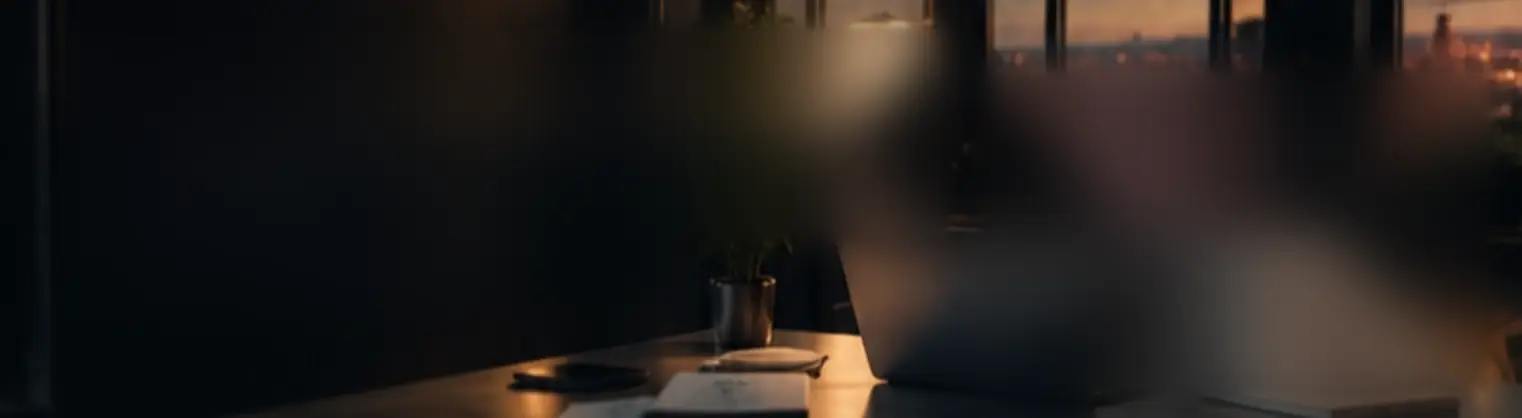
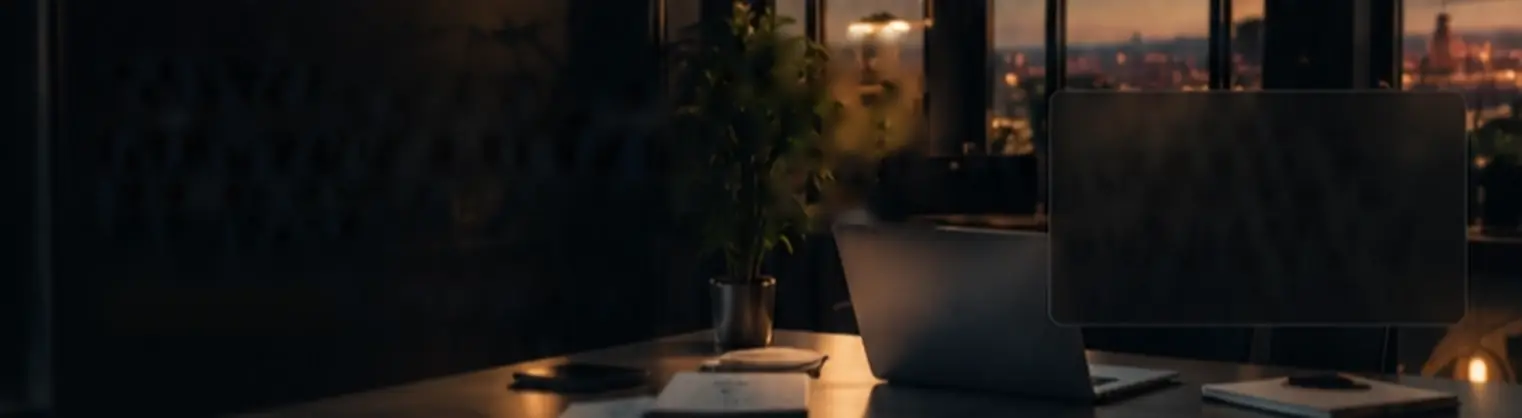
home: la cta igual que el boceto, con su foto limpia y el panel encajado, y el pie con todo lo legal

diff --git a/src/index.html b/src/index.html
@@ -320,38 +320,62 @@
     .g-datos p { margin-top: 2px; font-size: 13px; line-height: 1.5; color: #5A6270; }
 
     /* ============ 10 - CTA FINAL ============ */
-    .s10 { background: #0A0C0E; min-height: clamp(440px, 54vh, 600px); }
-    .s10 .foto { background-image: url(/assets/home-cierre.webp); filter: blur(1.4px); transform: scale(1.02); }
-    .s10 .velo { background: linear-gradient(90deg, rgba(5,7,9,.86) 0%, rgba(5,7,9,.62) 45%, rgba(5,7,9,.40) 100%); }
-    .s10 .caja { display: grid; grid-template-columns: 1fr minmax(0, 470px); gap: 56px; align-items: center; }
-    .s10 .h2 { color: #fff; }
-    .s10 .p { margin-top: 20px; color: rgba(255,255,255,.84); }
-    .k-acc { margin-top: 38px; display: flex; align-items: center; flex-wrap: wrap; gap: 28px; }
-    .btn-bl { background: #fff; color: var(--tinta); height: 60px; padding: 0 34px; font-size: 17px; }
-    .btn-bl:hover { background: #ECEEF1; }
-    .k-meta { display: flex; align-items: center; gap: 10px; font-size: 15px; color: rgba(255,255,255,.82); }
-    .k-meta svg { width: 20px; height: 20px; }
-    .k-lista { background: rgba(14,16,17,.82); border: 1px solid rgba(255,255,255,.14); border-radius: 16px; padding: 14px 30px; list-style: none; backdrop-filter: blur(10px); -webkit-backdrop-filter: blur(10px); }
-    .k-lista li { display: flex; align-items: center; gap: 18px; padding: 18px 0; font-size: 16.5px; color: rgba(255,255,255,.92); }
-    .k-lista li + li { border-top: 1px solid rgba(255,255,255,.08); }
-    .k-lista u { width: 38px; height: 38px; border-radius: 50%; border: 1.5px solid rgba(255,255,255,.55); display: flex; align-items: center; justify-content: center; }
-    .k-lista u svg { width: 19px; height: 19px; }
+    /* ============ 10 - CTA FINAL ============
+       Tercera pasada (2026-10-03): "no esta nada igual". Era una seccion de
+       dos tercios de pantalla con la foto ampliada, desenfocada y muy
+       oscurecida. Ahora es la tira del boceto tal cual: una escena con su
+       proporcion (761:209) y todo medido en unidades del boceto (--u = 1 px
+       de los 761). Medidas: titular 24 u, entradilla 10,6 u en dos lineas,
+       boton 126 x 30 u, panel 208 x 116 u en x513 y47, filas cada 33 u.
+       El texto arranca en 40 u (= 76 px a 1440) para alinearse con el resto
+       de secciones; el boceto lo ponia en 48. */
+    .s10 { background: #06080A; min-height: 0; display: block; }
+    .k-esc { position: relative; max-width: 1440px; margin: 0 auto; aspect-ratio: 761 / 209; container-type: inline-size; overflow: hidden; }
+    .k-foto { position: absolute; inset: 0; background: url(/assets/home-cierre.webp) center / 100% 100% no-repeat;
+              -webkit-mask-image: linear-gradient(90deg, transparent 0, #000 5%, #000 95%, transparent 100%); mask-image: linear-gradient(90deg, transparent 0, #000 5%, #000 95%, transparent 100%); }
+    .k-velo { position: absolute; inset: 0; background: linear-gradient(90deg, rgba(4,6,8,.45) 0%, rgba(4,6,8,.18) 40%, rgba(4,6,8,0) 60%); }
+    .k-in { position: absolute; inset: 0; --u: calc(100cqw / 761); color: #fff; }
+    .k-tx { position: absolute; left: calc(40 * var(--u)); top: calc(22 * var(--u)); }
+    .k-kick { font-size: calc(7.4 * var(--u)); line-height: 1; font-weight: 600; letter-spacing: .26em; text-transform: uppercase; color: rgba(255,255,255,.92); }
+    .k-t { margin-top: calc(12 * var(--u)); font-size: calc(24 * var(--u)); line-height: 1.1; font-weight: 700; letter-spacing: -.035em; }
+    .k-sub { margin-top: calc(9 * var(--u)); width: calc(300 * var(--u)); font-size: calc(10.6 * var(--u)); line-height: calc(16 * var(--u)); color: rgba(255,255,255,.88); }
+    .k-acc { margin-top: calc(17 * var(--u)); display: flex; align-items: center; gap: calc(18 * var(--u)); }
+    .k-btn { display: inline-flex; align-items: center; justify-content: center; gap: calc(7 * var(--u)); width: calc(126 * var(--u)); height: calc(30 * var(--u)); border: 0; border-radius: calc(5 * var(--u)); background: #fff; color: var(--tinta); font-family: inherit; font-size: calc(9.4 * var(--u)); font-weight: 600; cursor: pointer; white-space: nowrap; }
+    .k-btn:hover { background: #ECEEF1; }
+    .k-btn svg { width: calc(10 * var(--u)); height: calc(10 * var(--u)); }
+    .k-meta { display: flex; align-items: center; gap: calc(6 * var(--u)); font-size: calc(8.6 * var(--u)); color: rgba(255,255,255,.86); white-space: nowrap; }
+    .k-meta svg { width: calc(12 * var(--u)); height: calc(12 * var(--u)); }
+    /* El cristal oscuro del panel viene en la foto (borde medido en x524-733,
+       y44-162): el panel HTML va encima, casi transparente, para no
+       oscurecerlo dos veces. Si se mueve, se descuadra con el de la foto. */
+    .k-lista { position: absolute; left: calc(523.5 * var(--u)); top: calc(43.5 * var(--u)); width: calc(210 * var(--u)); height: calc(119 * var(--u)); list-style: none;
+               display: flex; flex-direction: column; padding: calc(12 * var(--u)) calc(14 * var(--u)) 0 calc(21 * var(--u));
+               background: rgba(14,16,18,.15); border: 1px solid rgba(255,255,255,.12); border-radius: calc(8 * var(--u)); }
+    .k-lista li { display: flex; align-items: center; gap: calc(6.5 * var(--u)); height: calc(33 * var(--u)); font-size: calc(8.7 * var(--u)); color: rgba(255,255,255,.92); white-space: nowrap; }
+    .k-lista li + li { border-top: 0; }
+    .k-lista u { width: calc(17 * var(--u)); height: calc(17 * var(--u)); border-radius: 50%; border: 1px solid rgba(255,255,255,.6); display: flex; align-items: center; justify-content: center; flex: 0 0 auto; }
+    .k-lista u svg { width: calc(10 * var(--u)); height: calc(10 * var(--u)); }
 
     /* ===================== 11 - PIE =====================
-       El boceto pone "Aviso legal", "Privacidad" y "Cookies", pero las tres
-       viven hoy dentro de privacy.html (CLAUDE.md): un solo enlace. Sin
-       LinkedIn: EasyRobots no tiene perfil. */
-    .s11 { background: var(--pie); color: #fff; border-top: 1px solid rgba(255,255,255,.14); }
-    .s11 .caja { padding-top: 40px; padding-bottom: 40px; display: flex; align-items: center; gap: 40px; }
-    .pi-marca b { display: block; font-size: 30px; font-weight: 700; letter-spacing: -.045em; line-height: 1.1; }
-    .pi-marca span { display: block; margin-top: 6px; font-size: 15px; color: rgba(255,255,255,.80); }
-    .pi-sep { width: 1px; height: 26px; background: rgba(255,255,255,.55); }
-    .pi-links { display: flex; flex-wrap: wrap; gap: 10px 32px; }
-    .pi-links a, .pi-legal a { font-size: 15px; color: rgba(255,255,255,.90); white-space: nowrap; }
-    .pi-links a:hover, .pi-legal a:hover { color: #fff; text-decoration: underline; text-underline-offset: 4px; }
-    .pi-legal { margin-left: auto; }
-    .pi-rs { display: flex; gap: 18px; }
-    .pi-rs svg { width: 28px; height: 28px; }
+       Tercera pasada (2026-10-03): Anais lo queria con todo lo legal, como
+       el de las landings. Misma estructura que /estetica/: columnas y la
+       linea de la razon social abajo. Los tres enlaces legales llevan a
+       privacy.html, que hoy recoge los tres. Sin LinkedIn: no hay perfil. */
+    .s11 { background: var(--pie); color: #fff; }
+    .s11 .caja { padding-top: 60px; padding-bottom: 36px; display: grid; grid-template-columns: 1.6fr 1fr 1.25fr 1.05fr auto; }
+    .pi-c { display: flex; flex-direction: column; gap: 5px; padding: 0 clamp(16px, 2.4vw, 36px); }
+    .pi-c + .pi-c { border-left: 1px solid rgba(255,255,255,.14); }
+    .pi-c:first-child { padding-left: 0; }
+    .pi-c b { font-size: 16px; font-weight: 700; margin-bottom: 6px; }
+    .pi-marca b { font-size: 26px; letter-spacing: -.045em; line-height: 1.1; margin-bottom: 8px; }
+    .pi-c a, .pi-c span { font-size: 14.5px; line-height: 1.5; color: rgba(255,255,255,.78); white-space: nowrap; }
+    .pi-marca span { white-space: normal; max-width: 250px; }
+    .pi-c a:hover { color: #fff; text-decoration: underline; text-underline-offset: 4px; }
+    .pi-rs { display: flex; gap: 12px; }
+    .pi-rs a { width: 40px; height: 40px; border: 1.5px solid rgba(255,255,255,.7); border-radius: 50%; display: flex; align-items: center; justify-content: center; color: #fff; }
+    .pi-rs a:hover { border-color: #fff; text-decoration: none; }
+    .pi-rs svg { width: 19px; height: 19px; }
+    .pi-legal { grid-column: 1 / -1; margin-top: 40px; padding-top: 20px; border-top: 1px solid rgba(255,255,255,.08); font-size: 13px; color: rgba(255,255,255,.45); text-align: center; }
 
     /* Al 90 % en escritorio, como /estetica/ e /inmobiliarias/: Anais ve la
        pagina con el navegador al 90 % y pidio que se quede asi (2026-10-03).
@@ -361,7 +385,7 @@
       body { zoom: .9; }
       .hero { height: calc(86vh / .9); height: calc(86svh / .9); }
       .sec { min-height: calc(var(--alto) / .9); }
-      .s06, .s07 { min-height: 0; }
+      .s06, .s07, .s10 { min-height: 0; }
     }
 
     /* ===================== TABLET ===================== */
@@ -377,16 +401,37 @@
       .k-ig { align-self: flex-start; margin-left: 0; }
       .s07 .caja { grid-template-columns: 1fr 1.4fr; }
       .g-col { grid-column: 1 / -1; }
-      .s11 .caja { flex-wrap: wrap; }
-      .pi-sep { display: none; }
-      .pi-legal { margin-left: 0; }
+      .s11 .caja { grid-template-columns: 1fr 1fr 1fr; row-gap: 32px; }
+      .pi-c:first-child { grid-column: 1 / -1; padding-left: 0; }
+      .pi-c:nth-child(2) { border-left: 0; padding-left: 0; }
+
+      /* CTA: en tableta (hasta 1180 px) las unidades del boceto quedan pequenas
+         (la entradilla bajaba de 14 px) y pasa a apilada. */
+      .k-esc { aspect-ratio: auto; max-width: none; }
+      .k-foto { background-size: cover; background-position: 40% center; -webkit-mask-image: none; mask-image: none; }
+      .k-velo { background: linear-gradient(90deg, rgba(4,6,8,.80) 0%, rgba(4,6,8,.55) 50%, rgba(4,6,8,.40) 100%); }
+      .k-in { position: relative; display: grid; grid-template-columns: 1fr minmax(0, 380px); gap: 40px; align-items: center; padding: 72px var(--lado); }
+      .k-tx, .k-lista { position: static; }
+      .k-kick { font-size: 12.5px; }
+      .k-t { margin-top: 14px; font-size: 38px; }
+      .k-sub { margin-top: 14px; width: auto; max-width: 440px; font-size: 17px; line-height: 1.55; }
+      .k-acc { margin-top: 28px; gap: 20px; flex-wrap: wrap; }
+      .k-btn { width: auto; height: 54px; padding: 0 28px; gap: 10px; border-radius: 8px; font-size: 16px; }
+      .k-btn svg { width: 17px; height: 17px; }
+      .k-meta { gap: 9px; font-size: 14.5px; }
+      .k-meta svg { width: 19px; height: 19px; }
+      .k-lista { width: auto; height: auto; padding: 6px 24px; border-radius: 14px; background: rgba(14,16,18,.72); border-color: rgba(255,255,255,.16); backdrop-filter: blur(10px); -webkit-backdrop-filter: blur(10px); }
+      .k-lista li { height: auto; padding: 16px 0; gap: 14px; font-size: 15.5px; white-space: normal; }
+      .k-lista li + li { border-top: 1px solid rgba(255,255,255,.08); }
+      .k-lista u { width: 36px; height: 36px; }
+      .k-lista u svg { width: 18px; height: 18px; }
     }
 
     /* ===================== MOVIL ===================== */
     @media (max-width: 860px) {
       :root { --pad: 64px; --alto: 0px; }
       .sec { display: block; }
-      .caja, .s07 .caja, .s10 .caja { display: block; }
+      .caja, .s07 .caja { display: block; }
       .h2 { font-size: 31px; }
       .kick { font-size: 11.5px; letter-spacing: .22em; }
       .btn { height: 52px; padding: 0 22px; font-size: 15.5px; }
@@ -491,16 +536,23 @@
       .g-fila br, .e-col .p br, .s07 .h2 br { display: none; }
 
       /* --- 10 --- */
-      .s10 { min-height: 0; }
-      .s10 .foto { background-image: url(/assets/home-cierre-movil.webp); filter: none; transform: none; }
-      .s10 .velo { background: linear-gradient(180deg, rgba(5,7,9,.80) 0%, rgba(5,7,9,.70) 50%, rgba(5,7,9,.86) 100%); }
+      .k-foto { background-image: url(/assets/home-cierre-movil.webp); background-position: center; }
+      .k-velo { background: linear-gradient(180deg, rgba(4,6,8,.80) 0%, rgba(4,6,8,.66) 50%, rgba(4,6,8,.86) 100%); }
+      .k-in { display: block; padding: 64px 22px; }
+      .k-t { font-size: 31px; }
+      .k-sub { font-size: 16px; }
       .k-acc { gap: 16px; }
-      .k-lista { margin-top: 34px; padding: 6px 20px; }
-      .k-lista li { font-size: 15px; padding: 14px 0; }
+      .k-lista { margin-top: 32px; padding: 4px 20px; }
+      .k-lista li { font-size: 15px; padding: 13px 0; }
 
       /* --- pie --- */
-      .s11 .caja { flex-direction: column; align-items: flex-start; gap: 26px; }
-      .pi-links { gap: 12px 22px; }
+      .s11 .caja { display: grid; grid-template-columns: 1fr 1fr; gap: 26px 0; padding-top: 44px; padding-bottom: 28px; }
+      .pi-c, .pi-c + .pi-c { padding: 0 12px 0 0; border-left: 0; }
+      .pi-c b { font-size: 15px; margin-bottom: 4px; }
+      .pi-marca b { font-size: 24px; }
+      .pi-c a, .pi-c span { font-size: 14px; }
+      .pi-c a { white-space: normal; overflow-wrap: anywhere; }
+      .pi-legal { margin-top: 24px; padding-top: 14px; font-size: 12px; }
     }
   
     /* Calendario de GHL en modal. Mismo patron que inmobiliarias y coaching. */
@@ -765,48 +817,62 @@
 
   <!-- =================== 10 - CTA FINAL =================== -->
   <section class="sec s10" id="hablemos">
-    <div class="foto" aria-hidden="true"></div>
-    <div class="velo" aria-hidden="true"></div>
-    <div class="caja">
-      <div>
-        <div class="kick cl">Cuéntanos tu caso</div>
-        <h2 class="h2">Hablemos de tu negocio.</h2>
-        <p class="p">Te escuchamos, analizamos tu situación y te mostramos cómo podemos ayudarte.</p>
-        <div class="k-acc">
-          <!-- Pendiente: enganchar al calendario de GHL, como en el resto. -->
-          <button class="btn btn-bl" type="button" data-cal>Reservar llamada
-            <svg class="flecha" viewBox="0 0 24 24" fill="none" stroke="currentColor" stroke-width="2.2" stroke-linecap="round" stroke-linejoin="round"><path d="M5 12h13M13 6l6 6-6 6"/></svg>
-          </button>
-          <div class="k-meta"><svg viewBox="0 0 24 24" fill="none" stroke="currentColor" stroke-width="1.8" stroke-linecap="round"><rect x="3.5" y="5" width="17" height="15.5" rx="2.5"/><path d="M3.5 10h17M8 3v4M16 3v4"/></svg>15 minutos · Sin compromiso</div>
+    <div class="k-esc">
+      <div class="k-foto" aria-hidden="true"></div>
+      <div class="k-velo" aria-hidden="true"></div>
+      <div class="k-in">
+        <div class="k-tx">
+          <div class="k-kick">Cuéntanos tu caso</div>
+          <h2 class="k-t">Hablemos de tu negocio.</h2>
+          <p class="k-sub">Te escuchamos, analizamos tu situación y te mostramos cómo podemos ayudarte.</p>
+          <div class="k-acc">
+            <button class="k-btn" type="button" data-cal>Reservar llamada
+              <svg viewBox="0 0 24 24" fill="none" stroke="currentColor" stroke-width="2.2" stroke-linecap="round" stroke-linejoin="round"><path d="M5 12h13M13 6l6 6-6 6"/></svg>
+            </button>
+            <div class="k-meta"><svg viewBox="0 0 24 24" fill="none" stroke="currentColor" stroke-width="1.8" stroke-linecap="round"><rect x="3.5" y="5" width="17" height="15.5" rx="2.5"/><path d="M3.5 10h17M8 3v4M16 3v4"/><path d="M9 15l2 2 4-4" stroke-linejoin="round"/></svg>15 minutos · Sin compromiso</div>
+          </div>
         </div>
+        <!-- Iconos como en el boceto: persona con lupa, bombilla y dos personas. -->
+        <ul class="k-lista">
+          <li><u><svg viewBox="0 0 24 24" fill="none" stroke="currentColor" stroke-width="1.7" stroke-linecap="round" stroke-linejoin="round"><circle cx="9.5" cy="8" r="3.5"/><path d="M3.5 20c0-3.3 2.7-6 6-6 1.2 0 2.3.3 3.2.9"/><circle cx="17" cy="16.5" r="2.8"/><path d="M19.1 18.6L21 20.5"/></svg></u>Analizamos tu situación actual</li>
+          <li><u><svg viewBox="0 0 24 24" fill="none" stroke="currentColor" stroke-width="1.7" stroke-linecap="round" stroke-linejoin="round"><path d="M9 18h6M10 21h4"/><path d="M12 3a6 6 0 00-3.6 10.8c.6.5 1 1.2 1 2V16h5.2v-.2c0-.8.4-1.5 1-2A6 6 0 0012 3z"/></svg></u>Vemos oportunidades en tu negocio</li>
+          <li><u><svg viewBox="0 0 24 24" fill="none" stroke="currentColor" stroke-width="1.7" stroke-linecap="round" stroke-linejoin="round"><circle cx="9" cy="8.5" r="3.2"/><path d="M3 20c0-3.3 2.7-5.8 6-5.8s6 2.5 6 5.8"/><circle cx="17" cy="9.5" r="2.6"/><path d="M16.5 14.3c2.6.2 4.5 2.4 4.5 5.2"/></svg></u>Te proponemos un sistema a medida</li>
+        </ul>
       </div>
-      <ul class="k-lista">
-        <li><u><svg viewBox="0 0 24 24" fill="none" stroke="currentColor" stroke-width="1.9" stroke-linecap="round"><circle cx="11" cy="11" r="6"/><path d="M20 20l-4.5-4.5"/></svg></u>Analizamos tu situación actual</li>
-        <li><u><svg viewBox="0 0 24 24" fill="none" stroke="currentColor" stroke-width="1.9" stroke-linecap="round" stroke-linejoin="round"><path d="M12 3.5l2.4 5 5.3.6-4 3.6 1.1 5.3-4.8-2.7-4.8 2.7 1.1-5.3-4-3.6 5.3-.6z"/></svg></u>Vemos oportunidades en tu negocio</li>
-        <li><u><svg viewBox="0 0 24 24" fill="none" stroke="currentColor" stroke-width="1.9" stroke-linecap="round" stroke-linejoin="round"><path d="M4 7h16M4 12h16M4 17h10"/></svg></u>Te proponemos un sistema a medida</li>
-      </ul>
     </div>
   </section>
 
   <!-- =================== 11 - PIE =================== -->
   <footer class="s11">
     <div class="caja">
-      <div class="pi-marca"><b>EasyRobots</b><span>Sistemas que hacen que tu negocio funcione.</span></div>
-      <i class="pi-sep" aria-hidden="true"></i>
-      <nav class="pi-links" aria-label="Sectores">
-        <a href="#inicio">Inicio</a>
-        <a href="/estetica/">Clínicas</a>
+      <div class="pi-c pi-marca"><b>EasyRobots</b><span>Sistemas que hacen que tu negocio funcione.</span></div>
+      <nav class="pi-c" aria-label="Soluciones por sector"><b>Soluciones</b>
+        <a href="/estetica/">Clínicas estéticas</a>
+        <a href="/dental/">Clínicas dentales</a>
         <a href="/inmobiliarias/">Inmobiliarias</a>
         <a href="/concesionarios/">Concesionarios</a>
-        <a href="/dental/">Dental</a>
-        <a href="/coaching/">Coaching</a>
         <a href="/ecommerce/">Ecommerce</a>
+        <a href="/coaching/">Coaching</a>
       </nav>
-      <div class="pi-legal"><a href="/privacy.html">Aviso legal, privacidad y cookies</a></div>
-      <div class="pi-rs">
-        <a href="https://instagram.com/easyrobots.ai" aria-label="Instagram"><svg viewBox="0 0 24 24" fill="none" stroke="currentColor" stroke-width="1.9"><rect x="3.5" y="3.5" width="17" height="17" rx="5"/><circle cx="12" cy="12" r="4"/><circle cx="17" cy="7" r="1.1" fill="currentColor" stroke="none"/></svg></a>
-        <a href="https://facebook.com/people/EasyRobotsAI/61587151053673/" aria-label="Facebook"><svg viewBox="0 0 24 24" fill="currentColor"><path d="M12 2a10 10 0 00-1.6 19.9v-7H7.9V12h2.5V9.8c0-2.5 1.5-3.9 3.8-3.9 1.1 0 2.2.2 2.2.2v2.5h-1.3c-1.2 0-1.6.8-1.6 1.6V12h2.8l-.4 2.9h-2.3v7A10 10 0 0012 2z"/></svg></a>
+      <div class="pi-c"><b>Empresa</b>
+        <a href="#como">Cómo trabajamos</a>
+        <a href="#caso">Casos reales</a>
+        <a href="#equipo">Sobre nosotros</a>
+        <a href="/guias/">Recursos</a>
+        <a href="mailto:info@easyrobots-ai.cloud">info@easyrobots-ai.cloud</a>
       </div>
+      <div class="pi-c"><b>Legal</b>
+        <a href="/privacy.html">Aviso legal</a>
+        <a href="/privacy.html">Política de privacidad</a>
+        <a href="/privacy.html">Política de cookies</a>
+      </div>
+      <div class="pi-c"><b>Síguenos</b>
+        <div class="pi-rs">
+          <a href="https://instagram.com/easyrobots.ai" aria-label="Instagram"><svg viewBox="0 0 24 24" fill="none" stroke="currentColor" stroke-width="1.9"><rect x="3.5" y="3.5" width="17" height="17" rx="5"/><circle cx="12" cy="12" r="4"/><circle cx="17" cy="7" r="1.1" fill="currentColor" stroke="none"/></svg></a>
+          <a href="https://facebook.com/people/EasyRobotsAI/61587151053673/" aria-label="Facebook"><svg viewBox="0 0 24 24" fill="currentColor"><path d="M13.6 21v-7.6h2.5l.4-3h-2.9V8.6c0-.9.3-1.4 1.5-1.4h1.5V4.5c-.3 0-1.2-.1-2.2-.1-2.2 0-3.7 1.3-3.7 3.8v2.2H8.2v3h2.5V21z"/></svg></a>
+        </div>
+      </div>
+      <p class="pi-legal">EasyRobots AH-NICE · Ana Isabel González Hoog · Tonndorfer Hauptstraße 61, Hamburgo (Alemania) · © 2026 EasyRobots</p>
     </div>
   </footer>
 

diff --git a/docs/fondos-index-v2.py b/docs/fondos-index-v2.py
@@ -161,14 +161,17 @@ guarda(e, 'home-equipo.webp', q=70)
 guarda(e[:, 0:540], 'home-equipo-movil.webp', q=70)
 
 # ---------------- 10 · CIERRE ----------------
+# Segunda version (2026-10-03). La primera borraba con rectangulos el panel
+# entero y el bloque de texto, y se llevaba las ventanas con la ciudad y la
+# copa de la planta: la seccion salia como una mancha y no se parecia al
+# boceto. Ahora se borran SOLO los pixeles de letra e icono; el cristal oscuro
+# del panel se queda en la foto y el panel HTML va encima, en su sitio exacto.
 k = carga('10-cta.webp')
-m = mascara_rect(k.shape, [
-    (40, 122, 180, 162),      # boton
-    (188, 128, 330, 156),     # "15 minutos"
-    (496, 40, 740, 192),      # panel
-    (40, 18, 470, 115),       # titular y texto
-], crece=4)
-k = borra(k, m, 9, 14)
+m = mascara_rect(k.shape, [(44, 125, 177, 160)], crece=3)          # boton blanco
+m |= mascara_texto(k, (40, 18, 470, 115), oscuro=False, umbral=34, crece=2)   # cintillo, titular, texto
+m |= mascara_texto(k, (186, 126, 330, 158), oscuro=False, umbral=34, crece=2) # "15 minutos"
+m |= mascara_texto(k, (528, 56, 724, 156), oscuro=False, umbral=30, crece=2)  # filas del panel
+k = borra(k, m, 5, 2)
 guarda(k, 'home-cierre.webp', q=72, ancho=1522)
 guarda(k[:, 180:480], 'home-cierre-movil.webp', q=72, ancho=600)
 

diff --git a/CLAUDE.md b/CLAUDE.md
@@ -1078,6 +1078,15 @@ se tocan.
   minimo, la cita de Pilar dentro de la columna derecha, filas de garantia de
   44 px). El resto de secciones le gusta como esta: no tocarlas sin que lo
   pida. El movil no se toco en esta pasada (12.084 px, largo).
+- **Tercera pasada (2026-10-03)**: la CTA "no estaba nada igual" al boceto.
+  Ahora es la tira tal cual: escena con proporcion 761:209 y todo en
+  unidades del boceto (`--u` = 1 px de 761). La foto ya no borra el panel
+  entero, solo letras e iconos: el cristal del panel viene en la foto (borde
+  x524-733, y44-162) y el `.k-lista` HTML va encima casi transparente. Si se
+  mueve el panel, se descuadra. En tableta y movil pasa a apilada. El pie
+  copia el de estetica: columnas Soluciones / Empresa / Legal (aviso legal,
+  privacidad y cookies, los tres a `privacy.html`) / Siguenos y la linea con
+  razon social, titular y direccion de Hamburgo.
 
 ## Landing de clinicas premium v2 (2026-10-02)
 
